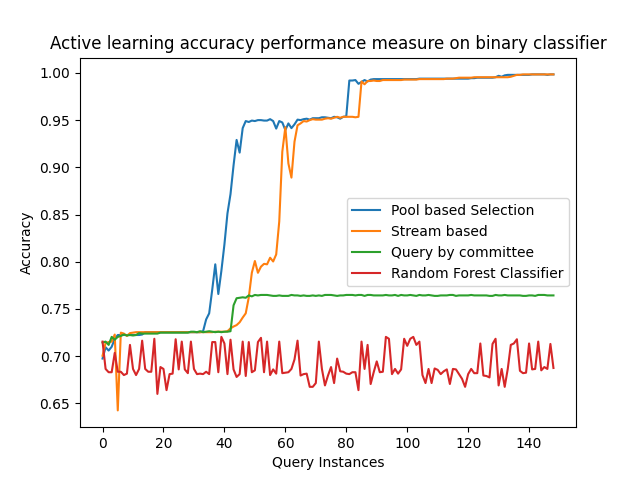
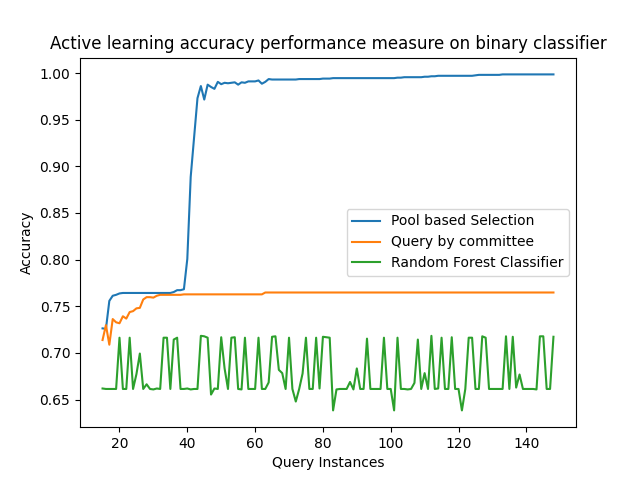
backup on 28 april

diff --git a/main/programs/daywise/32. 27-04-21/al_binary_classifier.py b/main/programs/daywise/32. 27-04-21/al_binary_classifier.py
@@ -295,7 +295,7 @@ class BinaryAL:
         plt.plot(x[start_index:how_many_max_instances], y1[start_index:how_many_max_instances], label="Pool based Selection")
 
         # y2 = [ ]
-        plt.plot(x[start_index:how_many_max_instances], y2[start_index:how_many_max_instances], label="Stream based ")
+        # plt.plot(x[start_index:how_many_max_instances], y2[start_index:how_many_max_instances], label="Stream based ")
 
         # y3 = [ ]
         plt.plot(x[start_index:how_many_max_instances], y3[start_index:how_many_max_instances], label="Query by committee")
@@ -315,14 +315,20 @@ class BinaryAL:
 
         y1 = self.active_learn(self.df1, self.first_item_index_of_each_category, Method.pool)
         self.init(self.initial_point, self.query_number)
-        y2 = self.active_learn(self.df1, self.first_item_index_of_each_category, Method.stream)
-        self.init(self.initial_point, self.query_number)
+
+        # y2 = self.active_learn(self.df1, self.first_item_index_of_each_category, Method.stream)
+        # self.init(self.initial_point, self.query_number)
+
         y3 = self.active_learn(self.df1, self.first_item_index_of_each_category, Method.qbc)
         self.init(self.initial_point, self.query_number)
+
         y4 = self.active_learn(self.df1, self.first_item_index_of_each_category, Method.rf)
         self.init(self.initial_point, self.query_number)
-        self.plotter(y1, y2, y3, y4,self.query_number - 1, 15)
 
+        self.plotter(y1, [], y3, y4,self.query_number - 1, 15)
 
-al1 = BinaryAL(15, 150)
+# al1 = BinaryAL(45, 150)
+# al1.learnAndPlot()
+
+al1 = BinaryAL(75, 150)
 al1.learnAndPlot()
